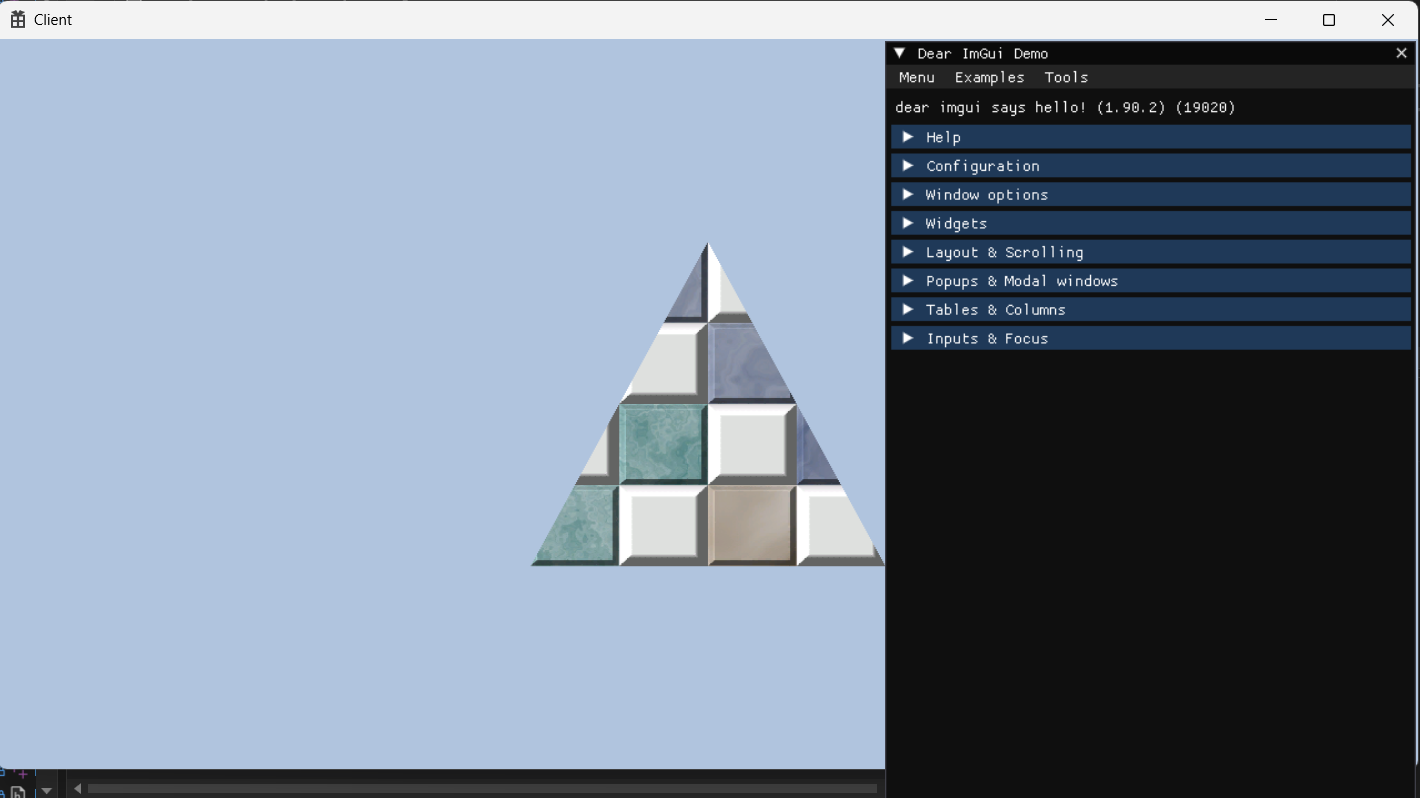
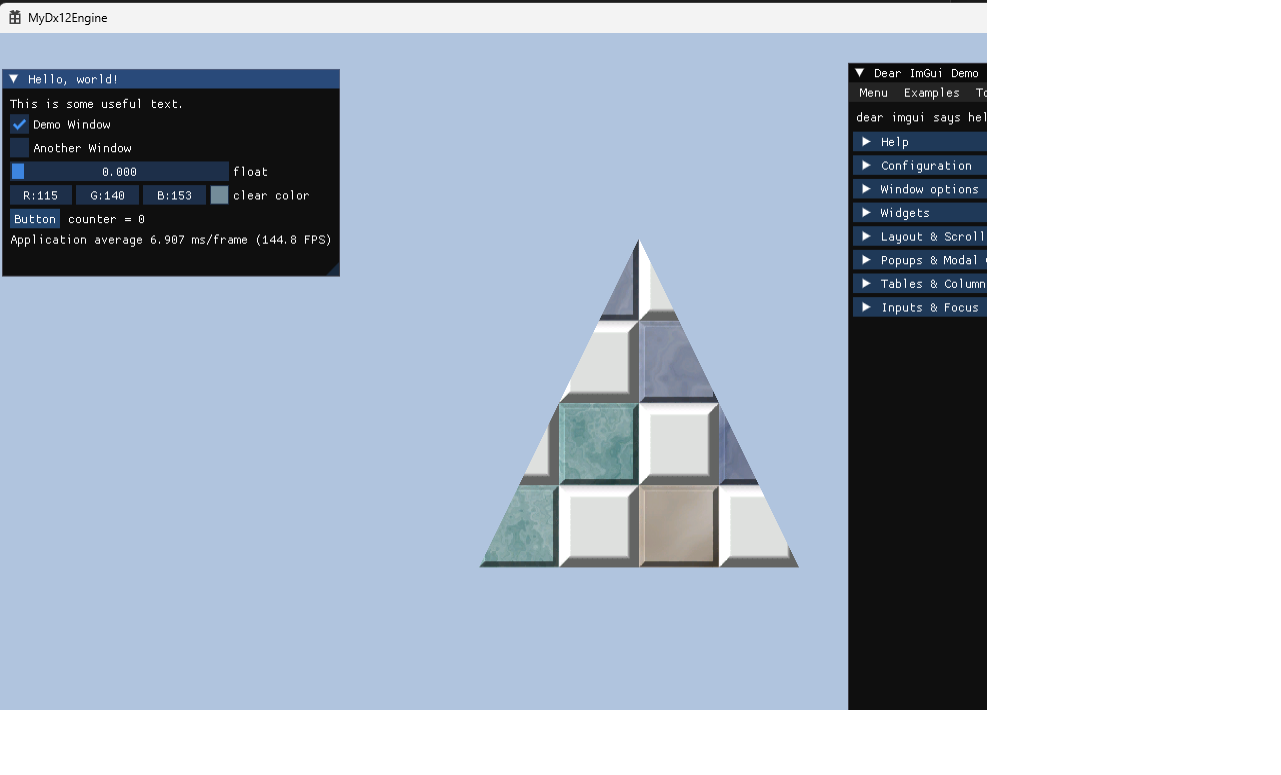
imgui 깜빡거림 수정
메인 렌더링 프로세스와 통합

diff --git a/Client/Default/Client.cpp b/Client/Default/Client.cpp
@@ -6,7 +6,6 @@
 #include "MainApp.h"
 
 
-
 #define MAX_LOADSTRING 100
 
 // 전역 변수:
@@ -14,6 +13,9 @@ HINSTANCE hInst;                                // 현재 인스턴스입니다.
 WCHAR szTitle[MAX_LOADSTRING];                  // 제목 표시줄 텍스트입니다.
 WCHAR szWindowClass[MAX_LOADSTRING];            // 기본 창 클래스 이름입니다.
 HWND g_hwnd;
+bool g_bImguiOn = true;
+// Forward declare message handler from imgui_impl_win32.cpp
+extern IMGUI_IMPL_API LRESULT ImGui_ImplWin32_WndProcHandler(HWND hWnd, UINT msg, WPARAM wParam, LPARAM lParam);
 
 // 이 코드 모듈에 포함된 함수의 선언을 전달합니다:
 ATOM                MyRegisterClass(HINSTANCE hInstance);
@@ -155,8 +157,12 @@ BOOL InitInstance(HINSTANCE hInstance, int nCmdShow)
 {
    hInst = hInstance; // 인스턴스 핸들을 전역 변수에 저장합니다.
 
-   HWND hWnd = CreateWindowW(szWindowClass, szTitle, WS_OVERLAPPEDWINDOW,
-      CW_USEDEFAULT, 0, CW_USEDEFAULT, 0, nullptr, nullptr, hInstance, nullptr);
+   RECT		rcWindow = { 0, 0, g_iWinSizeX, g_iWinSizeY };
+
+   AdjustWindowRect(&rcWindow, WS_OVERLAPPEDWINDOW, TRUE);
+
+   HWND hWnd = CreateWindowW(szWindowClass, L"MyDx12Engine", WS_OVERLAPPEDWINDOW,
+       CW_USEDEFAULT, 0, rcWindow.right - rcWindow.left, rcWindow.bottom - rcWindow.top, nullptr, nullptr, hInstance, nullptr);
 
    if (!hWnd)
    {
@@ -183,6 +189,9 @@ BOOL InitInstance(HINSTANCE hInstance, int nCmdShow)
 //
 LRESULT CALLBACK WndProc(HWND hWnd, UINT message, WPARAM wParam, LPARAM lParam)
 {
+    if (ImGui_ImplWin32_WndProcHandler(hWnd, message, wParam, lParam))
+        return true;
+
     switch (message)
     {
     case WM_COMMAND:

diff --git a/Client/Private/Client_Imgui.cpp b/Client/Private/Client_Imgui.cpp
@@ -21,6 +21,8 @@ HRESULT CClient_Imgui::Initialize(ID3D12Device* pDevice)
     HRESULT hr = S_OK;
 
     m_pRenderer = reinterpret_cast<CRenderer*>(CComponentManager::Get_Instance()->FindandGet_Prototype(L"Renderer"));
+    Safe_AddRef(m_pRenderer);
+
 
     // Create Srv Heap
     D3D12_DESCRIPTOR_HEAP_DESC desc = {};
@@ -130,18 +132,21 @@ void CClient_Imgui::Imgui_Tick()
     ImGui::Render();
 }
 
-void CClient_Imgui::Imgui_Render()
+void CClient_Imgui::Imgui_MainRender()
 {
-    m_pRenderer->BeginRender();
-
     m_pRenderer->Get_CmdList()->SetDescriptorHeaps(1, &m_pImguiSrvHeap);
     ImGui_ImplDX12_RenderDrawData(ImGui::GetDrawData(), m_pRenderer->Get_CmdList());
 
+}
 
+void CClient_Imgui::IMgui_EndRender()
+{
     m_pRenderer->EndRender();
+}
 
-
-    // Update and Render additional Platform Windows
+void CClient_Imgui::Imgui_Present()
+{
+	// Update and Render additional Platform Windows
     if (m_pIo->ConfigFlags & ImGuiConfigFlags_ViewportsEnable)
     {
         ImGui::UpdatePlatformWindows();
@@ -150,7 +155,6 @@ void CClient_Imgui::Imgui_Render()
 
     // Renderer -> Present
     m_pRenderer->Present();
-
 }
 
 HRESULT CClient_Imgui::Free()
@@ -163,7 +167,7 @@ HRESULT CClient_Imgui::Free()
     ImGui_ImplWin32_Shutdown();
     ImGui::DestroyContext();
 
-
+    Safe_Release(m_pRenderer);
 
     return S_OK;
 }

diff --git a/Client/Public/Client_Imgui.h b/Client/Public/Client_Imgui.h
@@ -18,19 +18,19 @@ public:
 	static CClient_Imgui* Create(ID3D12Device* pDevice);
 	HRESULT Initialize(ID3D12Device* pDevice);
 	void Imgui_Tick();
-	void Imgui_Render(); // Render Begin -> Main Render -> Render End -> Present
+	void Imgui_MainRender(); // Render Begin -> Main Render -> Render End -> Present
+	void IMgui_EndRender();
+	void Imgui_Present();
 	HRESULT Free() override;
-private: // Renderer Bundle
+private: // Pointer
 	CRenderer* m_pRenderer = nullptr;
 private:
-	ID3D12DescriptorHeap* m_pImguiSrvHeap = nullptr;
-	INT m_iNumFramesInFlight = 3;
-
 	bool m_show_demo_window = true;
 	bool m_show_another_window = false;
-	ImVec4 m_clear_color = ImVec4(0.45f, 0.55f, 0.60f, 1.00f);
-
+	INT m_iNumFramesInFlight = 2;
+	ID3D12DescriptorHeap* m_pImguiSrvHeap = nullptr;
 	ImGuiIO* m_pIo = nullptr;
+	ImVec4 m_clear_color = ImVec4(0.45f, 0.55f, 0.60f, 1.00f);
 };
 
 _NAMESPACE

diff --git a/Client/Private/MainApp.cpp b/Client/Private/MainApp.cpp
@@ -71,11 +71,17 @@ void CMainApp::Tick(_float fDeltaTime)
 	m_pGameInstance->Engine_Tick(fDeltaTime);
 
 	m_pRenderer->MainRender();
+
+#ifndef IMGUI_ON
 	m_pRenderer->EndRender();
 	m_pRenderer->Present();
-
+#else
 	m_pClient_Imgui->Imgui_Tick();
-	m_pClient_Imgui->Imgui_Render();
+	m_pClient_Imgui->Imgui_MainRender();
+	m_pClient_Imgui->IMgui_EndRender();
+	m_pClient_Imgui->Imgui_Present();
+#endif
+
 }
 
 

diff --git a/Client/Public/Client_Defines.h b/Client/Public/Client_Defines.h
@@ -1,5 +1,7 @@
 #pragma once
 
+extern bool g_bImguiOn;
+
 const unsigned int	g_iWinSizeX = 1280;
 const unsigned int	g_iWinSizeY = 720;
 

diff --git a/README.md b/README.md
@@ -1,6 +1,6 @@
 # MyDX12Engine
  
-마지막 결과물 스크린샷 : 24.02.14
-IMGUI for DX12 적용
+마지막 결과물 스크린샷 : 24.02.15
+IMGUI for DX12 적용 - 깜빡거림 수정
 
 ![Alt text](OutputScreenshot.png)
